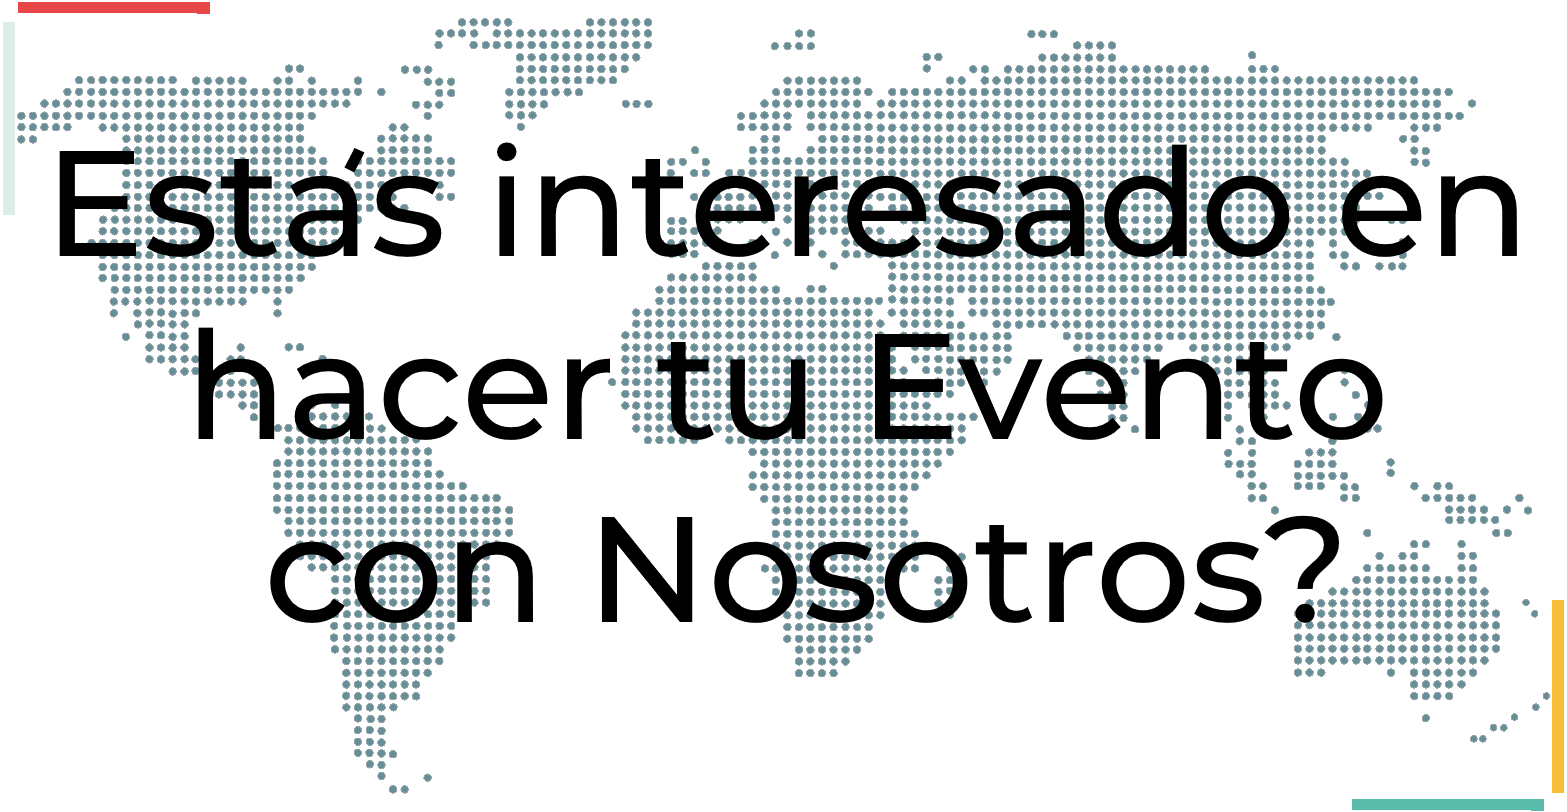
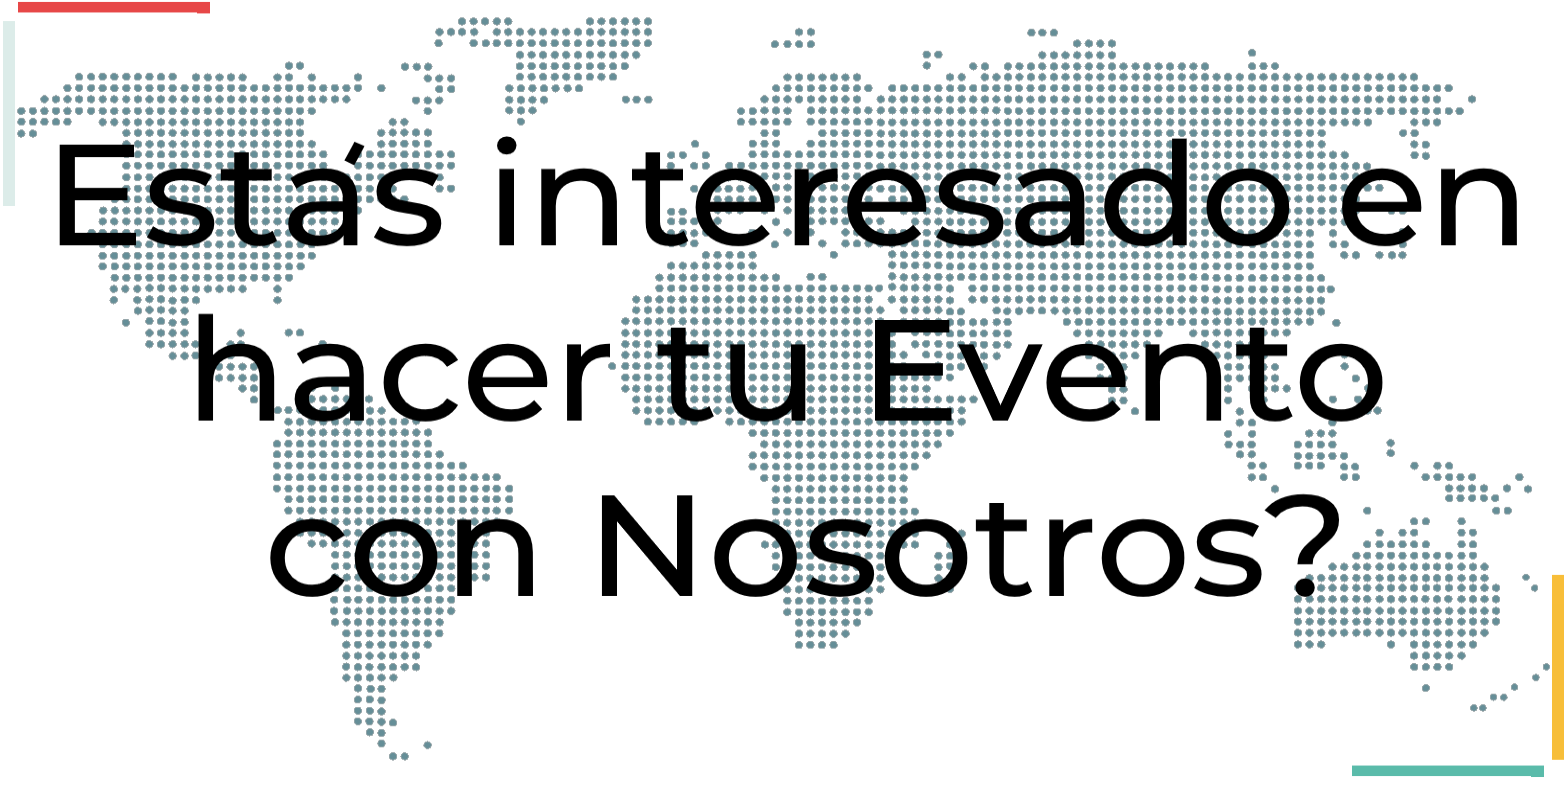
/

diff --git a/index.html b/index.html
@@ -4,10 +4,55 @@
     <link rel="stylesheet" href="./Styles/FormularioStyle.css">
     <meta charset="UTF-8">
     <title>Complejo Cultural Atlas</title>
+    <link rel="icon" href="https://ccatlas.org.ar/wp-content/themes/atlas/inc/assets/images/favicon.png" type="image/png">
+    <link href="https://fonts.googleapis.com/css?family=Montserrat&display=swap" rel="stylesheet">
 </head>
 <body>
-    <div class="ImagenContenedor">
-        <img class="ImagenEncabezado" src="./Assets/Encabezado.png">
-    </div>
+    <section class="ImagenContenedor">
+        <a href="#Formulario">
+            <img class="ImagenEncabezado" src="./Assets/Encabezado.png">
+        </a>
+    </section>
+    <section id="Formulario">
+            <h1 class="FormularioTitulo" style="font-size: 30px;">Dejanos Tus Datos!</h1>
+        <div class="FormularioContenedor">
+                <input class="FormularioInput" placeholder="Nombre(s)" type="text" name="Nombre">
+                <input class="FormularioInput" placeholder="Apellido(s)" type="text" name="Apellido">
+        </div>
+        <div class="FormularioContenedor">       
+                <input class="FormularioInput" style="width: 50%;" placeholder="Email" type="text" name="Email">
+                <input class="FormularioInput" style="width: 30%;" placeholder="Celular" type="number" name="Celular">
+        </div>
+        <div class="FormularioContenedor">       
+               <h2>Te gustaria que nos contactemos por Whatsapp?</h2>
+               <input type="switch">
+        </div>
+        <h2 class="FormularioTitulo" style="height: 1em;">Elegi Tu Espacio</h2>   
+        <div class="FormularioContenedor">    
+               <button type="button" class="FormularioEspacioBoton" name="Espacios">
+                   <img class="BotonImagen" src="./Assets/1.png" >
+               </button>
+               <button type="button" class="FormularioEspacioBoton"name="Espacios">
+                    <img class="BotonImagen" src="./Assets/2.png" >
+                </button>
+                <button type="button" class="FormularioEspacioBoton"name="Espacios">
+                    <img class="BotonImagen" src="./Assets/3.png" >
+                </button>
+                <button type="button" class="FormularioEspacioBoton"name="Espacios">
+                    <img class="BotonImagen" src="./Assets/4.png" >
+                </button>
+        </div>
+        <h2 class="FormularioTitulo" style="height: 1em;">Contanos un poco mas sobre tu Evento</h2>   
+        <div class="FormularioContenedor">       
+                <input class="FormularioInput" style="width: 50%;" placeholder="/ / " type="date" name="Fecha">
+                <select  class="FormularioInput" style="width: 30%;" placeholder="Cantidad de Asistentes" name="Asistentes">
+                    <option value="20">Hasta 20 Personas</option>
+                    <option value="50">Hasta 50 Personas</option>
+                    <option value="100">Hasta 100 Personas</option>
+                    <option value=">100">Mas de 100 Personas</option>
+                </select>
+        </div>
+        <button  class="FormularioBoton" type="submit">Enviar</button>
+    </section>
 </body>
 </html>

diff --git a/Styles/FormularioStyle.css b/Styles/FormularioStyle.css
@@ -2,17 +2,70 @@ html{
     width: 100%;
     height: 100%;
     margin: 0% auto;
+    scroll-behavior: smooth;
+    font-family: 'Montserrat', sans-serif;
 }
+
 body{
     width: 100%;
     margin: 0% auto;
 }
+
 .ImagenContenedor{
     width: 100%;
 }
+
 .ImagenEncabezado{
     width: 98%;
     height: auto;
     margin: 0% 1% 0% 1%;
     
+}
+
+.FormularioTitulo{
+    text-align: center;
+    width: 100%;
+    height: 1.5em;
+}
+
+.FormularioContenedor{
+    margin: 3% 1% 0% 1%;
+    display: flex;
+    justify-content: space-around;
+    
+}
+
+.FormularioInput{
+    width: 40%;
+    padding: 0%;
+    height: 2em;
+    font-size: 20px;
+    text-align: center;
+}
+
+.FormularioEspacioBoton{
+    width: 20%;
+    border: none;
+    background-color: inherit;
+    width: auto;
+    height: auto;
+}
+.FormularioEspacioBoton:hover{
+    opacity: 0.75;
+}
+
+.BotonImagen{
+    width: 100%;
+    height: auto;
+}
+.FormularioBoton{
+    font-size: 20px;
+    border: none;
+    background-color: #5ABBAA;
+    color: rgb(255, 255, 255);
+    margin: 5%;
+    text-align: center;
+    width: 90%;
+    height: 2.5em;
+    border-radius: 5px;
 }
